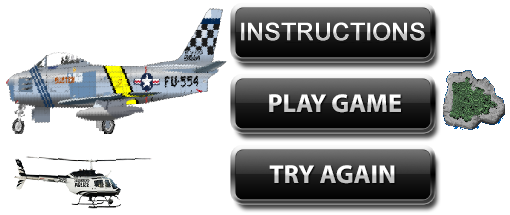
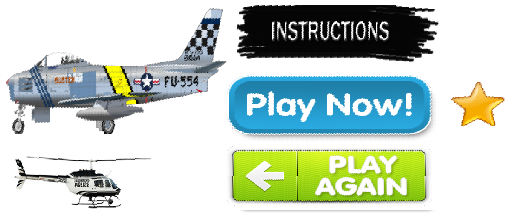
Final Committ

diff --git a/SideScroller/Scripts/states/menu.js b/SideScroller/Scripts/states/menu.js
@@ -32,14 +32,13 @@ var states;
         // Show Cursor
         stage.cursor = "default";
         // Display Game Over
-        gameNameLabel = new objects.Label(stage.canvas.width / 2, 40, "MAIL PILOT");
+        gameNameLabel = new objects.Label(stage.canvas.width / 2, 150, "Fighter Copter \n\n Instructions\n1: Use Mouse \n2: Get Stars\n3: Get High Score\n4: Beware \nFighter planes");
         game.addChild(gameNameLabel);
         // Display Play Again Button
-        playButton = new objects.Button(stage.canvas.width / 2, 300, "playButton");
+        playButton = new objects.Button(stage.canvas.width / 2, 400, "playButton");
         game.addChild(playButton);
         playButton.addEventListener("click", playButtonClicked);
         stage.addChild(game);
     }
     states.menu = menu;
 })(states || (states = {}));
-//# sourceMappingURL=menu.js.map

diff --git a/SideScroller/Scripts/states/menu.ts b/SideScroller/Scripts/states/menu.ts
@@ -35,13 +35,14 @@ module states {
         stage.cursor = "default";
 
         // Display Game Over
-        gameNameLabel = new objects.Label(stage.canvas.width / 2, 40, "MAIL PILOT");
+        gameNameLabel = new objects.Label(stage.canvas.width / 2, 150, "Fighter Copter \n\n Instructions\n1: Use Mouse \n2: Get Stars\n3: Get High Score\n4: Beware \nFighter planes");
         game.addChild(gameNameLabel);
 
         // Display Play Again Button
-        playButton = new objects.Button(stage.canvas.width / 2, 300, "playButton");
+        playButton = new objects.Button(stage.canvas.width / 2, 400, "playButton");
         game.addChild(playButton);
         playButton.addEventListener("click", playButtonClicked); 
+
         stage.addChild(game);
     }
 } 

diff --git a/SideScroller/Scripts/states/play.ts b/SideScroller/Scripts/states/play.ts
@@ -16,6 +16,12 @@ module states {
             clouds[count].update();
         }
 
+        if (scoreboard.score / 1000 == 1 && scoreboard.score != constants.PREVIOUS_SCORE_OF_BONUS) {
+            constants.PREVIOUS_SCORE_OF_BONUS = scoreboard.score;
+            constants.BONUS_LIVES += 1;
+            scoreboard.lives += 1;
+        }
+                                                            
         collision.update();
         scoreboard.update();
 
@@ -52,7 +58,6 @@ module states {
 
         // Instantiate Collision Manager
         collision = new managers.Collision(plane, island, clouds, scoreboard);
-
         stage.addChild(game);
     }
 }

diff --git a/SideScroller/Scripts/states/play.js b/SideScroller/Scripts/states/play.js
@@ -15,6 +15,11 @@ var states;
         for (var count = 0; count < constants.CLOUD_NUM; count++) {
             clouds[count].update();
         }
+        if (scoreboard.score / 1000 == 1 && scoreboard.score != constants.PREVIOUS_SCORE_OF_BONUS) {
+            constants.PREVIOUS_SCORE_OF_BONUS = scoreboard.score;
+            constants.BONUS_LIVES += 1;
+            scoreboard.lives += 1;
+        }
         collision.update();
         scoreboard.update();
         if (scoreboard.lives <= 0) {

diff --git a/SideScroller/Scripts/constants.js b/SideScroller/Scripts/constants.js
@@ -6,8 +6,10 @@ var constants;
     constants.GAME_OVER_STATE = 2;
     // Game Constants
     constants.CLOUD_NUM = 3;
-    constants.LABEL_FONT = "40px Consolas";
-    constants.LABEL_COLOUR = "#FFFF00";
+    constants.LABEL_FONT = "40px Harrington";
+    constants.LABEL_COLOUR = "#F8F8F8";
     constants.PLANE_LIVES = 3;
+    constants.BONUS_LIVES = 0;
+    constants.PREVIOUS_SCORE_OF_BONUS = 0;
 })(constants || (constants = {}));
 //# sourceMappingURL=constants.js.map

diff --git a/SideScroller/Scripts/objects/scoreboard.js b/SideScroller/Scripts/objects/scoreboard.js
@@ -15,7 +15,7 @@ var objects;
             game.addChild(this.label);
         }
         Scoreboard.prototype.update = function () {
-            this.labelText = "Lives: " + this.lives.toString() + " Score: " + this.score.toString();
+            this.labelText = "Lives: " + this.lives.toString() + "               Score: " + this.score.toString();
             this.label.text = this.labelText;
         };
         Scoreboard.prototype.destroy = function () {

diff --git a/SideScroller/Scripts/constants.ts b/SideScroller/Scripts/constants.ts
@@ -6,7 +6,9 @@
 
     // Game Constants
     export var CLOUD_NUM: number = 3;
-    export var LABEL_FONT = "40px Consolas";
-    export var LABEL_COLOUR = "#FFFF00";
-    export var PLANE_LIVES = 3;
+    export var LABEL_FONT = "40px Harrington";
+    export var LABEL_COLOUR = "#F8F8F8";
+    export var PLANE_LIVES: number = 3;
+    export var BONUS_LIVES: number = 0;
+    export var PREVIOUS_SCORE_OF_BONUS: number = 0;
 }

diff --git a/SideScroller/Scripts/objects/scoreboard.ts b/SideScroller/Scripts/objects/scoreboard.ts
@@ -23,7 +23,7 @@
         }
 
         update() {
-            this.labelText = "Lives: " + this.lives.toString() + " Score: " + this.score.toString();
+            this.labelText = "Lives: " + this.lives.toString() + "               Score: " + this.score.toString();
             this.label.text = this.labelText;
         }
 
